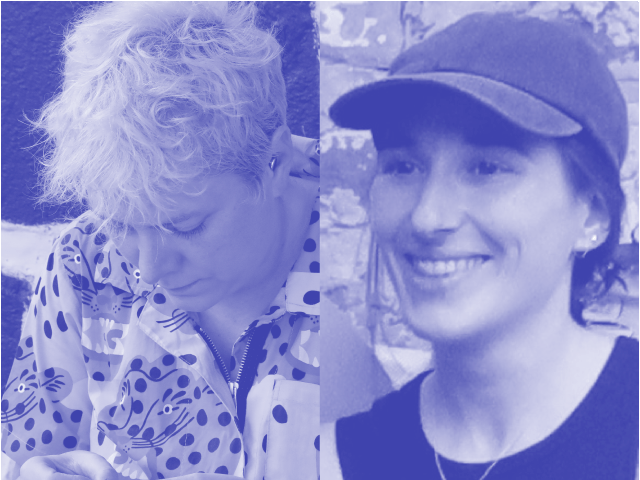
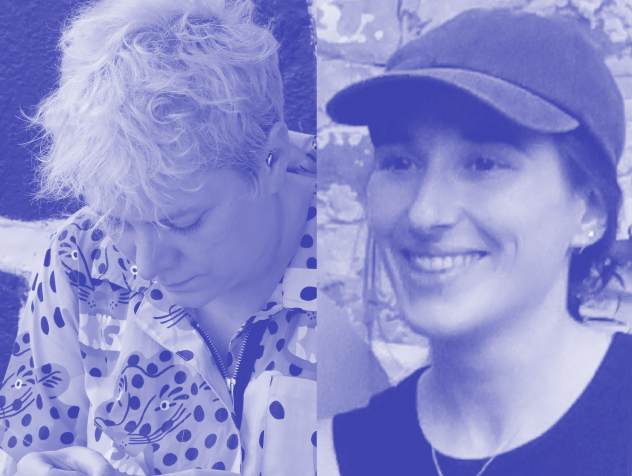
lock history user & better crop on img

diff --git a/coulisses.html b/coulisses.html
@@ -6,6 +6,19 @@
     <meta name="apple-mobile-web-app-status-bar-style" content="black-translucent">
     <link rel="manifest" href="/manifest.json">
     <link rel="stylesheet" type="text/css" href="style.css">
+    <script>
+      // history lock
+      window.addEventListener('load', function () {
+        history.pushState({ locked: true }, '', '');
+        history.pushState({ locked: true }, '', '');
+
+        window.addEventListener('popstate', function (e) {
+          if (e.state && e.state.locked) {
+            history.go(1);
+          }
+        });
+      });
+    </script>
     <script src="tailwind.js"></script>
   </head>
   <body class="bg-[#3f43ad] text-white p-3">

diff --git a/portraits.html b/portraits.html
@@ -6,6 +6,19 @@
     <meta name="apple-mobile-web-app-status-bar-style" content="black-translucent">
     <link rel="manifest" href="/manifest.json">
     <link rel="stylesheet" type="text/css" href="style.css">
+    <script>
+      // history lock
+      window.addEventListener('load', function () {
+        history.pushState({ locked: true }, '', '');
+        history.pushState({ locked: true }, '', '');
+
+        window.addEventListener('popstate', function (e) {
+          if (e.state && e.state.locked) {
+            history.go(1);
+          }
+        });
+      });
+    </script>
     <script src="tailwind.js"></script>
   </head>
   <body class="bg-[#3f43ad] text-white p-3">

diff --git a/tissus.html b/tissus.html
@@ -6,6 +6,19 @@
     <meta name="apple-mobile-web-app-status-bar-style" content="black-translucent">
     <link rel="manifest" href="/manifest.json">
     <link rel="stylesheet" type="text/css" href="style.css">
+    <script>
+      // history lock
+      window.addEventListener('load', function () {
+        history.pushState({ locked: true }, '', '');
+        history.pushState({ locked: true }, '', '');
+
+        window.addEventListener('popstate', function (e) {
+          if (e.state && e.state.locked) {
+            history.go(1);
+          }
+        });
+      });
+    </script>
     <script src="tailwind.js"></script>
   </head>
   <body class="bg-[#3f43ad] text-white p-3">
